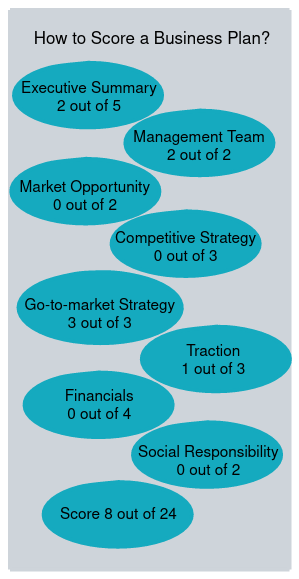
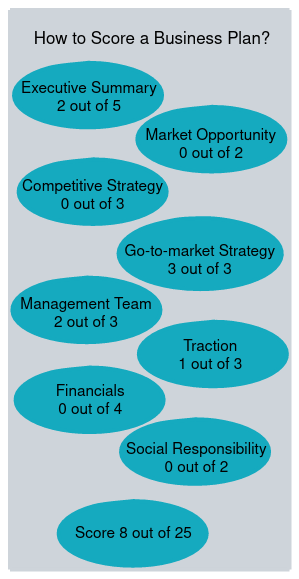
misc

diff --git a/certifications/certified-business-plan-judge/index.html b/certifications/certified-business-plan-judge/index.html
@@ -81,7 +81,7 @@
 	<h1>Oren Certificied Business Plan Judge</h1>
 <p>Validate your business plan scoring skills with an industry-recognized credential and grow your career.  Cost: 6 minutes.</p>
 <h2>Training (5 minutes)</h2>
-<p>A Business plan is a document. You score it between 0 and 24. Spend only 5-10 minutes reading and scoring it.</p>
+<p>A Business plan is a document. You score it between 0 and 25. Spend only 5-10 minutes reading and scoring it.</p>
 <p><img src="how-to-score-a-business-plan.png" alt="score" /></p>
 <h3>1. Overall Impression of the Executive Summary</h3>
 <ul>
@@ -134,13 +134,10 @@
 </ul>
 <h2>Exam (1 minutes)</h2>
 <p><strong>Question 1:</strong> What is the highest score a business plan cat get?</p>
-<p><strong>Answer:</strong> 24. There are 24 yes no questions. Each 'yes' count as 1 score.</p>
+<p><strong>Answer:</strong> 25. There are 25 yes no questions. Each 'yes' count as 1 score.</p>
 <hr />
-<p><strong>Question 2:</strong> A business plan nis missing Social Responsibility. What is the highest score business plan A can get?</p>
-<p><strong>Answer:</strong> 22. If Social Responsibility missing, the Business Plan loses 2 scores.</p>
-<hr />
-<p><strong>Question 3:</strong> Business plan A is 52233342 and pusiness Plan B is 02233340. Score them.</p>
-<p><strong>Answer:</strong> 24 and 17. Business plan A score is 24 (5+2+2+3+3+3+4+2) and business plan B score is 17 (0+2+2+3+3+3+4+0).</p>
+<p><strong>Question 2:</strong> A business plan is missing Social Responsibility. What is the highest score this business plan can get?</p>
+<p><strong>Answer:</strong> 23. If Social Responsibility missing, the Business Plan loses 2 scores.</p>
 <hr />
 <p>If you answered correctly and you understand it, congratulations! You are a Oren Certified Business Plan Judge.</p>
 <p>This is your certificate. Show it at the airport.</p>

diff --git a/certifications/certified-business-plan-judge/README.md b/certifications/certified-business-plan-judge/README.md
@@ -4,7 +4,7 @@ Validate your business plan scoring skills with an industry-recognized credentia
 
 ## Training (5 minutes)
 
-A Business plan is a document. You score it between 0 and 24. Spend only 5-10 minutes reading and scoring it.
+A Business plan is a document. You score it between 0 and 25. Spend only 5-10 minutes reading and scoring it.
 
 ![score](how-to-score-a-business-plan.png)
 
@@ -53,19 +53,13 @@ A Business plan is a document. You score it between 0 and 24. Spend only 5-10 mi
 
 **Question 1:** What is the highest score a business plan cat get?
 
-**Answer:** 24. There are 24 yes no questions. Each 'yes' count as 1 score.
+**Answer:** 25. There are 25 yes no questions. Each 'yes' count as 1 score.
 
 ---
 
-**Question 2:** A business plan nis missing Social Responsibility. What is the highest score business plan A can get?
+**Question 2:** A business plan is missing Social Responsibility. What is the highest score this business plan can get?
 
-**Answer:** 22. If Social Responsibility missing, the Business Plan loses 2 scores.
-
----
-
-**Question 3:** Business plan A is 52233342 and pusiness Plan B is 02233340. Score them.
-
-**Answer:** 24 and 17. Business plan A score is 24 (5+2+2+3+3+3+4+2) and business plan B score is 17 (0+2+2+3+3+3+4+0).
+**Answer:** 23. If Social Responsibility missing, the Business Plan loses 2 scores.
 
 ---
 
